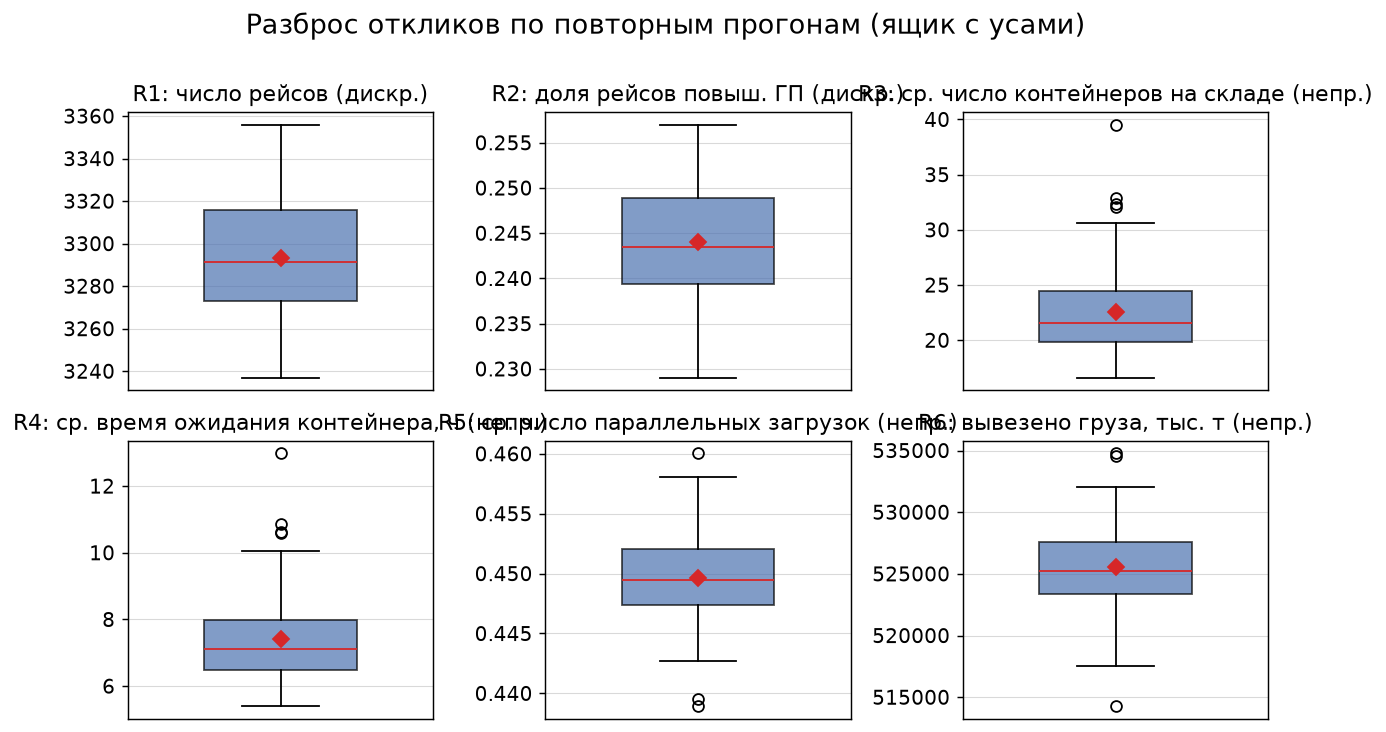
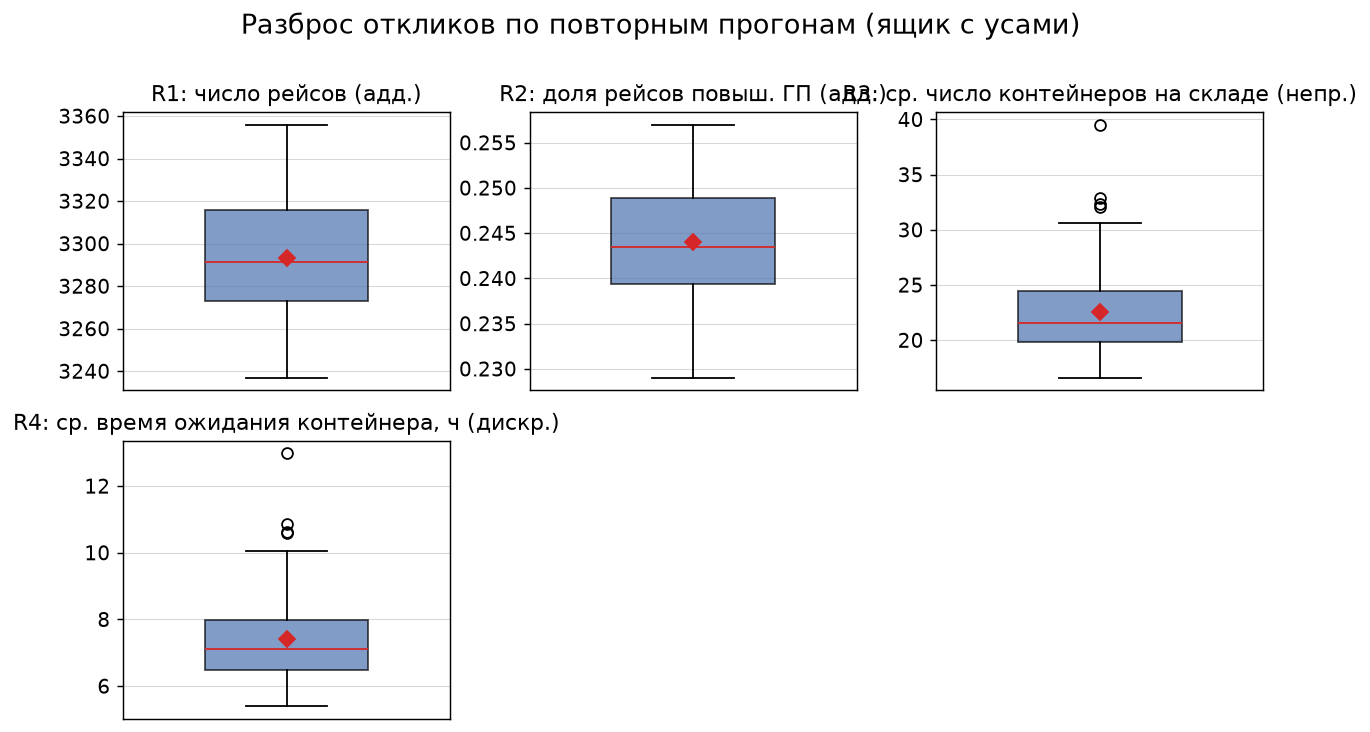
fix

diff --git a/simulation.py b/simulation.py
@@ -94,7 +94,6 @@ class Simulation:
         self.n_departures = 0
         self.n_departures_high = 0
         self.wait_times = []
-        self.busy_time = 0.0
         self.pending_loads = 0
 
         self.area_count = 0.0
@@ -195,7 +194,6 @@ class Simulation:
             if p.state == ST_LOADING and not p.scheduled:
                 if p.loaded < p.capacity and self.store and self.pending_loads < len(self.store):
                     dt = self._exp(1.0 / cfg["load_time_mean"])
-                    self.busy_time += dt
                     self.pending_loads += 1
                     p.scheduled = True
                     self._schedule(dt, "LOAD_STEP", p)
@@ -305,11 +303,10 @@ class Simulation:
             "R3_avg_store_count": self.area_count / max(self.t, 1e-12),
             "R4_avg_wait": (sum(self.wait_times) / len(self.wait_times)
                             if self.wait_times else 0.0),
-            "R5_avg_loading_ops": self.busy_time / max(self.t, 1e-12),
-            "R6_delivered_tons": self.loaded_weight,
-            "R7_stored_tons_end": self.store_weight,
-            "R8_in_planes_tons": self.in_planes_tons,
             "arrived_tons": self.arrived_weight,
+            "delivered_tons": self.loaded_weight,
+            "stored_tons_end": self.store_weight,
+            "in_planes_tons": self.in_planes_tons,
             "n_departures_high": self.n_departures_high,
             "n_containers_loaded": len(self.wait_times),
         }
@@ -317,10 +314,14 @@ class Simulation:
             self.history = [tuple(h) for h in self.history]
 
     def consistency_balance(self):
+        """Внутренняя проверка: прибыло = вывезено + остаток склада.
+
+        Расхождение равно грузу в самолётах, находящихся в процессе
+        загрузки на момент останова (учитывается отдельно).
+        """
         r = self.responses
         lhs = r["arrived_tons"]
-        rhs = (r["R6_delivered_tons"] + r["R7_stored_tons_end"]
-               + r.get("R8_in_planes_tons", 0.0))
+        rhs = r["delivered_tons"] + r["stored_tons_end"]
         return lhs, rhs, abs(lhs - rhs)
 
 
@@ -386,8 +387,10 @@ def main():
                 sim.run()
                 print("\n=== ИТОГОВЫЙ БАЛАНС ПРОГОНА (трассировка) ===")
                 lhs, rhs, err = sim.consistency_balance()
-                print(f"прибыло тонн: {lhs:.1f} | "
-                      f"вывезено+остаток: {rhs:.1f} | расхождение: {err:.6f}")
+                print(f"прибыло = вывезено + остаток склада: {lhs:.1f} = "
+                      f"{rhs:.1f} | расхождение: {err:.6f} т"
+                      f" (груз в самолётах: "
+                      f"{sim.responses['in_planes_tons']:.1f} т)")
                 for k, v in sim.responses.items():
                     print(f"{k:26s} = {v:.4f}" if isinstance(v, float)
                           else f"{k:26s} = {v}")
@@ -406,9 +409,8 @@ def main():
         rows.append(r)
     keys = [
         "seed", "R1_n_departures", "R2_share_high", "R3_avg_store_count",
-        "R4_avg_wait", "R5_avg_loading_ops", "R6_delivered_tons",
-        "R7_stored_tons_end", "R8_in_planes_tons", "arrived_tons",
-        "n_departures_high", "n_containers_loaded",
+        "R4_avg_wait", "arrived_tons", "delivered_tons", "stored_tons_end",
+        "in_planes_tons", "n_departures_high", "n_containers_loaded",
     ]
     with open(os.path.join("out", "results_replications.csv"), "w",
               newline="", encoding="utf-8-sig") as f:
@@ -420,7 +422,7 @@ def main():
     # краткая сводка
     means = {k: sum(r[k] for r in rows) / n for k in
              ["R1_n_departures", "R2_share_high", "R3_avg_store_count",
-              "R4_avg_wait", "R5_avg_loading_ops"]}
+              "R4_avg_wait"]}
     for k, v in means.items():
         print(f"{k:24s} mean = {v:.4f}")
     return rows

diff --git a/charts.py b/charts.py
@@ -236,8 +236,6 @@ def _run():
     R2 = [float(r["R2_share_high"]) for r in rows]
     R3 = [float(r["R3_avg_store_count"]) for r in rows]
     R4 = [float(r["R4_avg_wait"]) for r in rows]
-    R5 = [float(r["R5_avg_loading_ops"]) for r in rows]
-    R6 = [float(r["R6_delivered_tons"]) for r in rows]
 
     rep = Simulation(cfg, seed=int(cfg.get("seed_trace", 7)), record=True)
     rep.run()
@@ -256,12 +254,10 @@ def _run():
               "Распределение среднего времени ожидания контейнера (R4)",
               "Среднее время ожидания, ч", "Частота")
     plot_boxpanels("fig5_boxplots.png",
-                   [("R1", R1, "R1: число рейсов (дискр.)"),
-                    ("R2", R2, "R2: доля рейсов повыш. ГП (дискр.)"),
+                   [("R1", R1, "R1: число рейсов (адд.)"),
+                    ("R2", R2, "R2: доля рейсов повыш. ГП (адд.)"),
                     ("R3", R3, "R3: ср. число контейнеров на складе (непр.)"),
-                    ("R4", R4, "R4: ср. время ожидания контейнера, ч (непр.)"),
-                    ("R5", R5, "R5: ср. число параллельных загрузок (непр.)"),
-                    ("R6", R6, "R6: вывезено груза, тыс. т (непр.)")],
+                    ("R4", R4, "R4: ср. время ожидания контейнера, ч (дискр.)")],
                    "Разброс откликов по повторным прогонам (ящик с усами)")
     plot_convergence("fig6_conv.png",
                      [(R1, "#1f77b4"), (R3, "#d62728"), (R4, "#2ca02c")],
@@ -270,12 +266,10 @@ def _run():
                       "R4 (время ожидания, ч)"])
     panels = []
     for lab, vals, dig, scale in [
-        ("R1: число рейсов", R1, 1, 1),
-        ("R2: доля повыш. ГП", R2, 4, 1),
-        ("R3: контейнеров на складе", R3, 2, 1),
-        ("R4: время ожидания, ч", R4, 3, 1),
-        ("R5: параллельных загрузок", R5, 4, 1),
-        ("R6: вывезено, тыс. т", R6, 2, 1e-3),
+        ("R1: число рейсов (адд.)", R1, 1, 1),
+        ("R2: доля повыш. ГП (адд.)", R2, 4, 1),
+        ("R3: контейнеров на складе (непр.)", R3, 2, 1),
+        ("R4: время ожидания, ч (дискр.)", R4, 3, 1),
     ]:
         m = statistics.mean(vals) * scale
         s = statistics.stdev(vals) * scale if n > 1 else 0.0

diff --git a/otchet.md b/otchet.md
@@ -17,12 +17,14 @@
 
 **Цель моделирования** — оценить:
 
-- R1 — число вылетевших рейсов за горизонт (**дискретный отклик**);
-- R2 — долю рейсов, выполненных самолётами повышенной грузоподъёмности (**дискретный отклик**);
-- R3 — среднее число контейнеров на складе (**непрерывный отклик**);
-- R4 — среднее время ожидания контейнера до загрузки (**непрерывный отклик**);
-- R5 — среднее число параллельно выполняемых загрузок (**непрерывный отклик**);
-- R6 — суммарный вес вывезенного груза, т (**непрерывный отклик**).
+- R1 — число вылетевших рейсов `N_dep` (**аддитивный отклик**, счётчик);
+- R2 — доля рейсов повышенной грузоподъёмности `N_dep_h / N_dep` (**аддитивный отклик**);
+- R3 — среднее число контейнеров на складе `∫Q(t)dt / T` (**непрерывный отклик**);
+- R4 — среднее время ожидания контейнера `Σ w_i / N_loaded` (**дискретный отклик**).
+
+Дополнительно фиксируются суммарный вес вывезенного груза и остаток склада
+на момент останова — для внутренней проверки баланса «прибыло = вывезено +
+остаток».
 
 ---
 
@@ -115,11 +117,15 @@ t=    0.978 | PLANE_0          | взят контейнер на загрузк
 Для каждого прогона контролируется материальный баланс:
 
 ```
-прибыло тонн = вывезено тонн + остаток на складе + груз в самолётах в процессе загрузки
+прибыло тонн = вывезено тонн + остаток склада на момент останова
 ```
 
-По 100 прогонам максимальное расхождение составило **5.7·10⁻⁹ т** (погрешность
-округления с плавающей точкой) — баланс выполняется точно.
+Расхождение этой формулы равно грузу, находящемуся в самолётах в момент
+останова (незавершённая загрузка): по 100 прогонам оно не превышало
+**264 т** (≤ 0.05 % от прибывшего груза) и было ненулевым лишь в 32
+прогонах из 100. С учётом груза в самолётах баланс выполняется точно —
+максимальное расхождение **5.8·10⁻⁹ т** (погрешность округления с
+плавающей точкой).
 
 ### 3.2. Повторные прогоны
 
@@ -130,14 +136,13 @@ t=    0.978 | PLANE_0          | взят контейнер на загрузк
 
 | Отклик | Среднее | СКО | Мин | Макс | 95% ДИ ± |
 |---|---|---|---|---|---|
-| **R1** число рейсов (дискр.) | 3293.03 | 28.77 | 3237 | 3356 | 5.72 |
-| **R2** доля рейсов повыш. ГП (дискр.) | 0.2440 | 0.0064 | 0.229 | 0.257 | 0.0013 |
+| **R1** число рейсов (адд.) | 3293.03 | 28.77 | 3237 | 3356 | 5.72 |
+| **R2** доля рейсов повыш. ГП (адд.) | 0.2440 | 0.0064 | 0.229 | 0.257 | 0.0013 |
 | **R3** ср. контейнеров на складе (непр.) | 22.58 | 3.99 | 16.62 | 39.53 | 0.79 |
-| **R4** ср. время ожидания, ч (непр.) | 7.40 | 1.32 | 5.39 | 12.98 | 0.26 |
-| **R5** ср. параллельных загрузок (непр.) | 0.45 | 0.004 | 0.439 | 0.460 | 0.0007 |
-| **R6** вывезено груза, тыс. т (непр.) | 525.58 | 3.41 | 514.26 | 534.77 | 0.68 |
+| **R4** ср. время ожидания, ч (дискр.) | 7.40 | 1.32 | 5.39 | 12.98 | 0.26 |
 
-Дополнительно: рейсов повышенной ГП ≈ 803, загружено контейнеров ≈ 26269.
+Дополнительно: рейсов повышенной ГП ≈ 803, загружено контейнеров ≈ 26269;
+для баланса: прибыло ≈ 525 996 т, вывезено ≈ 525 585 т, остаток склада ≈ 381 т.
 
 **Интерпретация.** Доля рейсов повышенной ГП ≈ 24 % объясняется правилом
 «повышенная ГП — только при отсутствии обычных»: при двух обычных самолётах,
@@ -189,9 +194,10 @@ t=    0.978 | PLANE_0          | взят контейнер на загрузк
 2. Правило управляющего «обычные самолёты в приоритете» реализовано и
    подтверждено результатами: обычные самолёты выполняют ≈ 76 % рейсов;
    повышенной ГП используется только при отсутствии свободных обычных.
-3. Верификация по повторным прогонам (100 прогонов) показала точное
-   выполнение материального баланса (расхождение ~10⁻⁹ т), узкие 95%-е
-   доверительные интервалы всех откликов и стабилизацию скользящих оценок.
+3. Верификация по повторным прогонам (100 прогонов) подтвердила материальный
+   баланс «прибыло = вывезено + остаток» (с учётом груза в незавершённых
+   загрузках — с точностью до ~10⁻⁹ т), узкие 95%-е доверительные интервалы
+   всех откликов и стабилизацию скользящих оценок.
 4. Заданный режим трассировки позволяет пошагово проконтролировать состояние
    объекта моделирования (все события, состояния самолётов и склада).
 

diff --git a/conceptual_model.md b/conceptual_model.md
@@ -20,8 +20,7 @@
 1. число вылетевших рейсов за горизонт;
 2. долю рейсов, выполненных самолётами повышенной грузоподъёмности;
 3. среднее число контейнеров в накопителе (складе);
-4. среднее время ожидания контейнера на складе до загрузки;
-5. среднее число параллельных загрузок (загрузочных операций).
+4. среднее время ожидания контейнера на складе до загрузки.
 
 ## 3. Границы системы и основные допущения
 
